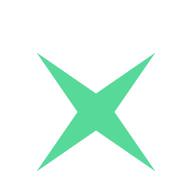
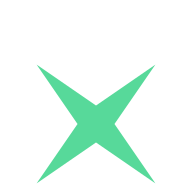
Lower the × further into the ring's opening (centre at 100, 60); assets regenerated

Changed region(s): [[0.1875, 0.2812, 0.8125, 0.9688]]

diff --git a/site/roadmap.html b/site/roadmap.html
@@ -544,8 +544,8 @@ td.n{font-variant-numeric:tabular-nums;white-space:nowrap;color:var(--ink)}
     <div class="body wide">
       <p class="lede">The power symbol, with a spark where its line would be: turn the computer on, and there's intelligence inside. One colour, solid, clear at 16 pixels.</p>
       <div class="lockups">
-        <div class="lockup"><svg class="lg" viewBox="27 12 146 175" aria-hidden="true" style="fill:currentColor;color:currentColor"><path class="arc" d="M52.72 77.06 A60 60 0 1 0 147.28 77.06" fill="none" stroke="currentColor" stroke-width="22" stroke-linecap="round" pathLength="1"/><path class="spark" d="M129.70 24.30 109.24 54.00 129.70 83.70 100.00 63.24 70.30 83.70 90.76 54.00 70.30 24.30 100.00 44.76Z"/></svg><b>tripppin</b></div>
-        <div class="lockup night"><svg class="lg" viewBox="27 12 146 175" aria-hidden="true" style="fill:currentColor;color:currentColor"><path class="arc" d="M52.72 77.06 A60 60 0 1 0 147.28 77.06" fill="none" stroke="currentColor" stroke-width="22" stroke-linecap="round" pathLength="1"/><path class="spark" d="M129.70 24.30 109.24 54.00 129.70 83.70 100.00 63.24 70.30 83.70 90.76 54.00 70.30 24.30 100.00 44.76Z"/></svg><b>tripppin</b></div>
+        <div class="lockup"><svg class="lg" viewBox="27 12 146 175" aria-hidden="true" style="fill:currentColor;color:currentColor"><path class="arc" d="M52.72 77.06 A60 60 0 1 0 147.28 77.06" fill="none" stroke="currentColor" stroke-width="22" stroke-linecap="round" pathLength="1"/><path class="spark" d="M129.70 30.30 109.24 60.00 129.70 89.70 100.00 69.24 70.30 89.70 90.76 60.00 70.30 30.30 100.00 50.76Z"/></svg><b>tripppin</b></div>
+        <div class="lockup night"><svg class="lg" viewBox="27 12 146 175" aria-hidden="true" style="fill:currentColor;color:currentColor"><path class="arc" d="M52.72 77.06 A60 60 0 1 0 147.28 77.06" fill="none" stroke="currentColor" stroke-width="22" stroke-linecap="round" pathLength="1"/><path class="spark" d="M129.70 30.30 109.24 60.00 129.70 89.70 100.00 69.24 70.30 89.70 90.76 60.00 70.30 30.30 100.00 50.76Z"/></svg><b>tripppin</b></div>
       </div>
       <div class="cards">
         <div class="card"><svg class="ic"><use href="#i-zap"/></svg><h4>The orb is the spark</h4><p>The spark twinkles while idle, spins while the AI thinks, and spins faster while a tool runs.</p></div>

diff --git a/crates/trip/src/logo.rs b/crates/trip/src/logo.rs
@@ -22,7 +22,7 @@ pub const GAP_DEG: f64 = 52.0;
 /// How far round the ring goes, in degrees.
 pub const SPAN: f64 = 360.0 - 2.0 * GAP_DEG;
 /// The spark: centre x, centre y, point length, waist ratio.
-pub const SPARK: (f64, f64, f64, f64) = (100.0, 54.0, 42.0, 0.22);
+pub const SPARK: (f64, f64, f64, f64) = (100.0, 60.0, 42.0, 0.22);
 /// The spark's resting turn: its long points on the diagonals, an ×.
 pub const SPARK_REST_DEG: f64 = 45.0;
 /// The mark's box in logo units: x, y, width, height.
@@ -459,8 +459,8 @@ mod tests {
 
     #[test]
     fn geometry() {
-        assert!(in_spark(100.0, 54.0, 1.0, 0.0));
-        assert!(!in_spark(140.0, 54.0, 1.0, 0.0));
+        assert!(in_spark(100.0, 60.0, 1.0, 0.0));
+        assert!(!in_spark(140.0, 60.0, 1.0, 0.0));
         assert!(ring_at(40.0, 114.0, 1.0).is_some());
         assert!(ring_at(100.0, 54.0, 1.0).is_none()); // the gap
         let [(lx, ly), (rx, ry)] = ring_ends();
